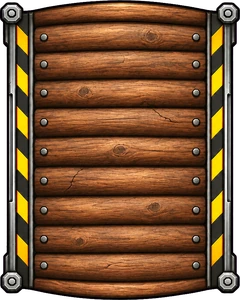
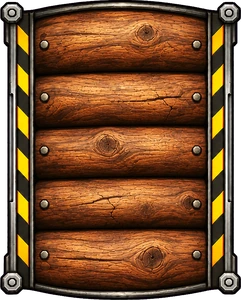
Новый деревянный мост через реку
Claude-Session: https://claude.ai/code/session_013R86rVRDV7uvtfdFLL6VJw

diff --git a/sw.js b/sw.js
@@ -1,6 +1,6 @@
-/* «Две базы» offline cache, version 2026.11.13-2223. A new version of this file makes phones fetch the new game;
+/* «Две базы» offline cache, version 2026.11.13-2248. A new version of this file makes phones fetch the new game;
    files whose content didn't change are copied from the old cache instead of downloaded again. */
-const V='dvebazy-2026.11.13-2223',H={"base_blue.webp": "3fa30d2184", "base_red.webp": "7dbdedfcd1", "crater.webp": "f8f526da4a", "crystal.webp": "3a4d69ffd7", "crystal_empty.webp": "e0bfd176b7", "desert.mp3": "4e820be7a4", "field_empty.webp": "1a89de323f", "field_full.webp": "5ce65390f6", "forest.mp3": "4d73b83bec", "hq_blue.webp": "9fd8e7e807", "hq_red.webp": "971d8873b5", "hv_e_blue.webp": "0fb54e58f2", "hv_e_red.webp": "dadb0cb8e0", "hv_f_blue.webp": "0eaca5d65e", "hv_f_red.webp": "1a6f973922", "intro.mp3": "d06e8482e9", "lost.mp3": "640926f4fa", "nuke.webp": "3bd289d94c", "ref_blue.webp": "55d23168b2", "ref_red.webp": "3c357584ff", "rocket.webp": "071c1a603f", "titan.mp3": "74a7fba796", "titan_hull_blue.webp": "b95fc02d02", "titan_hull_red.webp": "bc3479a55e", "titan_tur_blue.webp": "3a694cdb51", "titan_tur_red.webp": "4c836f3f95", "tw_can_blue.webp": "39c2cdb5df", "tw_can_red.webp": "11768d7b6d", "tw_mg_blue.webp": "f2a7462850", "tw_mg_red.webp": "b13edf318a", "tw_rkt_blue.webp": "890841b140", "tw_rkt_red.webp": "1cd20dd65c", "tw_tes_blue.webp": "f8dbac1346", "tw_tes_red.webp": "35dace5877", "victory.mp3": "86da21c965", "wave.webp": "02e3191a09", "winter.mp3": "c049c90e71", "voice_balist1.mp3": "a809bffd15", "voice_batk1.mp3": "bc1cce2b93", "voice_bomb1.mp3": "3e85b9b9dc", "voice_first1.mp3": "5d89f62894", "voice_first2.mp3": "6f591c10d3", "voice_first3.mp3": "de270f2917", "voice_first4.mp3": "52d929dd20", "voice_first5.mp3": "475b1aa197", "voice_first6.mp3": "d2ce90c984", "voice_first7.mp3": "222510fe73", "voice_hvdie1.mp3": "c1c6b9d714", "voice_loh1.mp3": "21e001d1e4", "voice_loh10.mp3": "41e66ff026", "voice_loh2.mp3": "e7da3dd047", "voice_loh3.mp3": "5cc145f5da", "voice_loh4.mp3": "58b7b9dbe7", "voice_loh5.mp3": "1426e425ce", "voice_loh6.mp3": "2053d0fb8a", "voice_loh7.mp3": "b546dc0fcb", "voice_loh8.mp3": "373d27d207", "voice_loh9.mp3": "ee76b7cbbf", "voice_lose1.mp3": "0965212c4d", "voice_lose2.mp3": "0272edf688", "voice_lose3.mp3": "fcb16aa0a5", "voice_lose4.mp3": "f4663fb4e3", "voice_lose5.mp3": "606ac4c1cf", "voice_lose6.mp3": "83a1fe1747", "voice_mazor1.mp3": "0a2f8341b5", "voice_mazor2.mp3": "2d0ef74267", "voice_mine2.mp3": "5ebf9d3ec6", "voice_mset1.mp3": "a35afbeb82", "voice_mvz1.mp3": "77e6ee09e0", "voice_mvz2.mp3": "fb090a12ca", "voice_nkb1.mp3": "52d38c9324", "voice_nkb2.mp3": "01c40b5760", "voice_nkb3.mp3": "39fe27bdf7", "voice_nkb4.mp3": "64aef97f88", "voice_nkb5.mp3": "4d31a020df", "voice_nkb6.mp3": "789a890588", "voice_nuke2.mp3": "8ca89b5589", "voice_ogon1.mp3": "c9d67acb12", "voice_orud1.mp3": "3026d1e2ee", "voice_rzap1.mp3": "2e0d131a35", "voice_vrag1.mp3": "028cb3b269", "voice_vrag2.mp3": "2e10b723e9", "voice_vrag3.mp3": "6079f5e810", "voice_vrag4.mp3": "8f7fa0ef37", "voice_vrag5.mp3": "e94b070c67", "voice_vrag6.mp3": "cb9915cce8", "voice_vrag7.mp3": "7ed2c5a974", "voice_vrag8.mp3": "48edfe60b2", "voice_vrag9.mp3": "8b0f4d86ee", "voice_win1.mp3": "f3f0a603b5", "voice_win2.mp3": "12950c5326", "voice_win3.mp3": "62d5e009ec", "voice_win4.mp3": "c6f262900b", "voice_win5.mp3": "63d2a5f9c8", "voice_bomb2.mp3": "2a7dccab6b", "voice_bomb3.mp3": "9939c42554", "voice_bomb4.mp3": "ae8e689c51", "voice_bomb5.mp3": "a8e38dbf99", "voice_bomb6.mp3": "5ad7691213", "voice_bomb7.mp3": "68265021c3", "voice_mset2.mp3": "e2e92e7433", "voice_mset3.mp3": "a9811a1536", "voice_mset4.mp3": "8173956a14", "voice_tout1.mp3": "e36d93eff4", "voice_tout2.mp3": "32e7428350", "voice_tout3.mp3": "9fca62bcdf", "voice_tout4.mp3": "3e314749bc", "voice_tout5.mp3": "5fcc940e4d", "voice_tout6.mp3": "fac430fb0f", "voice_tout7.mp3": "979fea3bea", "voice_tout8.mp3": "01a95c5d7b", "voice_tout9.mp3": "6bfcb1b4f9", "voice_etout1.mp3": "43c1b6aaf3", "voice_etout2.mp3": "bd5d728dc7", "voice_etout3.mp3": "9fd5dfc497", "voice_etout4.mp3": "781294a546", "voice_etout5.mp3": "d430e427bc", "voice_orud2.mp3": "aa9e1b81be", "voice_orud3.mp3": "705171a146", "voice_orud4.mp3": "238aca5997", "voice_orud5.mp3": "339952603c", "voice_tlow1.mp3": "785ec7eec0", "voice_tlow2.mp3": "96d601ac89", "voice_tlow3.mp3": "74a22eaaeb", "voice_tlow4.mp3": "fe8e1de87d", "voice_tlow5.mp3": "3cc923bbde", "voice_tlow6.mp3": "4c544afc32", "voice_tlow7.mp3": "32148d5608", "voice_tlow8.mp3": "aa26e23409", "voice_tlow9.mp3": "3085b4d856", "sw2_grass.webp": "ae9bb5b54f", "sw2_mud.webp": "be0d1aced4", "sw2_water.webp": "e2eb74a170", "sw2_atlas.webp": "427607d22b", "sw2_atlas2.webp": "8e1c286c2d", "sw2_pads.webp": "1d18fc9a44", "sw2_atlas3.webp": "28ae61a313", "campaign_map.webp": "a477e42c26", "camp_flags.webp": "bdd397d7fb", "gate_l.webp": "33dd6c659c", "gate_r.webp": "bce02067fe", "gate_logo.webp": "975690c1a2", "hg_icons_free.webp": "910e6c103f", "hg_icons_sup.webp": "25639c2240", "hg_icons_harv.webp": "787070f3e2", "hg_icons_tow.webp": "7943557806", "hg_icons_tit.webp": "2a0621a74b", "mrd_s.webp": "9e3aaed637", "mrd_c.webp": "9969b8a8a2", "meadow_pads.webp": "9990b14e0d", "bridge_wood.webp": "cd4e3475aa", "bridge_steel.webp": "a76d73254d", "manifest.webmanifest": "7015537d8d", "icon-192.png": "3f01f503e0", "icon-512.png": "ea3305bba6", "icon-180.png": "5713f46e1f", "splash-512.png": "03f3510d8f"};
+const V='dvebazy-2026.11.13-2248',H={"base_blue.webp": "3fa30d2184", "base_red.webp": "7dbdedfcd1", "crater.webp": "f8f526da4a", "crystal.webp": "3a4d69ffd7", "crystal_empty.webp": "e0bfd176b7", "desert.mp3": "4e820be7a4", "field_empty.webp": "1a89de323f", "field_full.webp": "5ce65390f6", "forest.mp3": "4d73b83bec", "hq_blue.webp": "9fd8e7e807", "hq_red.webp": "971d8873b5", "hv_e_blue.webp": "0fb54e58f2", "hv_e_red.webp": "dadb0cb8e0", "hv_f_blue.webp": "0eaca5d65e", "hv_f_red.webp": "1a6f973922", "intro.mp3": "d06e8482e9", "lost.mp3": "640926f4fa", "nuke.webp": "3bd289d94c", "ref_blue.webp": "55d23168b2", "ref_red.webp": "3c357584ff", "rocket.webp": "071c1a603f", "titan.mp3": "74a7fba796", "titan_hull_blue.webp": "b95fc02d02", "titan_hull_red.webp": "bc3479a55e", "titan_tur_blue.webp": "3a694cdb51", "titan_tur_red.webp": "4c836f3f95", "tw_can_blue.webp": "39c2cdb5df", "tw_can_red.webp": "11768d7b6d", "tw_mg_blue.webp": "f2a7462850", "tw_mg_red.webp": "b13edf318a", "tw_rkt_blue.webp": "890841b140", "tw_rkt_red.webp": "1cd20dd65c", "tw_tes_blue.webp": "f8dbac1346", "tw_tes_red.webp": "35dace5877", "victory.mp3": "86da21c965", "wave.webp": "02e3191a09", "winter.mp3": "c049c90e71", "voice_balist1.mp3": "a809bffd15", "voice_batk1.mp3": "bc1cce2b93", "voice_bomb1.mp3": "3e85b9b9dc", "voice_first1.mp3": "5d89f62894", "voice_first2.mp3": "6f591c10d3", "voice_first3.mp3": "de270f2917", "voice_first4.mp3": "52d929dd20", "voice_first5.mp3": "475b1aa197", "voice_first6.mp3": "d2ce90c984", "voice_first7.mp3": "222510fe73", "voice_hvdie1.mp3": "c1c6b9d714", "voice_loh1.mp3": "21e001d1e4", "voice_loh10.mp3": "41e66ff026", "voice_loh2.mp3": "e7da3dd047", "voice_loh3.mp3": "5cc145f5da", "voice_loh4.mp3": "58b7b9dbe7", "voice_loh5.mp3": "1426e425ce", "voice_loh6.mp3": "2053d0fb8a", "voice_loh7.mp3": "b546dc0fcb", "voice_loh8.mp3": "373d27d207", "voice_loh9.mp3": "ee76b7cbbf", "voice_lose1.mp3": "0965212c4d", "voice_lose2.mp3": "0272edf688", "voice_lose3.mp3": "fcb16aa0a5", "voice_lose4.mp3": "f4663fb4e3", "voice_lose5.mp3": "606ac4c1cf", "voice_lose6.mp3": "83a1fe1747", "voice_mazor1.mp3": "0a2f8341b5", "voice_mazor2.mp3": "2d0ef74267", "voice_mine2.mp3": "5ebf9d3ec6", "voice_mset1.mp3": "a35afbeb82", "voice_mvz1.mp3": "77e6ee09e0", "voice_mvz2.mp3": "fb090a12ca", "voice_nkb1.mp3": "52d38c9324", "voice_nkb2.mp3": "01c40b5760", "voice_nkb3.mp3": "39fe27bdf7", "voice_nkb4.mp3": "64aef97f88", "voice_nkb5.mp3": "4d31a020df", "voice_nkb6.mp3": "789a890588", "voice_nuke2.mp3": "8ca89b5589", "voice_ogon1.mp3": "c9d67acb12", "voice_orud1.mp3": "3026d1e2ee", "voice_rzap1.mp3": "2e0d131a35", "voice_vrag1.mp3": "028cb3b269", "voice_vrag2.mp3": "2e10b723e9", "voice_vrag3.mp3": "6079f5e810", "voice_vrag4.mp3": "8f7fa0ef37", "voice_vrag5.mp3": "e94b070c67", "voice_vrag6.mp3": "cb9915cce8", "voice_vrag7.mp3": "7ed2c5a974", "voice_vrag8.mp3": "48edfe60b2", "voice_vrag9.mp3": "8b0f4d86ee", "voice_win1.mp3": "f3f0a603b5", "voice_win2.mp3": "12950c5326", "voice_win3.mp3": "62d5e009ec", "voice_win4.mp3": "c6f262900b", "voice_win5.mp3": "63d2a5f9c8", "voice_bomb2.mp3": "2a7dccab6b", "voice_bomb3.mp3": "9939c42554", "voice_bomb4.mp3": "ae8e689c51", "voice_bomb5.mp3": "a8e38dbf99", "voice_bomb6.mp3": "5ad7691213", "voice_bomb7.mp3": "68265021c3", "voice_mset2.mp3": "e2e92e7433", "voice_mset3.mp3": "a9811a1536", "voice_mset4.mp3": "8173956a14", "voice_tout1.mp3": "e36d93eff4", "voice_tout2.mp3": "32e7428350", "voice_tout3.mp3": "9fca62bcdf", "voice_tout4.mp3": "3e314749bc", "voice_tout5.mp3": "5fcc940e4d", "voice_tout6.mp3": "fac430fb0f", "voice_tout7.mp3": "979fea3bea", "voice_tout8.mp3": "01a95c5d7b", "voice_tout9.mp3": "6bfcb1b4f9", "voice_etout1.mp3": "43c1b6aaf3", "voice_etout2.mp3": "bd5d728dc7", "voice_etout3.mp3": "9fd5dfc497", "voice_etout4.mp3": "781294a546", "voice_etout5.mp3": "d430e427bc", "voice_orud2.mp3": "aa9e1b81be", "voice_orud3.mp3": "705171a146", "voice_orud4.mp3": "238aca5997", "voice_orud5.mp3": "339952603c", "voice_tlow1.mp3": "785ec7eec0", "voice_tlow2.mp3": "96d601ac89", "voice_tlow3.mp3": "74a22eaaeb", "voice_tlow4.mp3": "fe8e1de87d", "voice_tlow5.mp3": "3cc923bbde", "voice_tlow6.mp3": "4c544afc32", "voice_tlow7.mp3": "32148d5608", "voice_tlow8.mp3": "aa26e23409", "voice_tlow9.mp3": "3085b4d856", "sw2_grass.webp": "ae9bb5b54f", "sw2_mud.webp": "be0d1aced4", "sw2_water.webp": "e2eb74a170", "sw2_atlas.webp": "427607d22b", "sw2_atlas2.webp": "8e1c286c2d", "sw2_pads.webp": "1d18fc9a44", "sw2_atlas3.webp": "28ae61a313", "campaign_map.webp": "a477e42c26", "camp_flags.webp": "bdd397d7fb", "gate_l.webp": "33dd6c659c", "gate_r.webp": "bce02067fe", "gate_logo.webp": "975690c1a2", "hg_icons_free.webp": "910e6c103f", "hg_icons_sup.webp": "25639c2240", "hg_icons_harv.webp": "787070f3e2", "hg_icons_tow.webp": "7943557806", "hg_icons_tit.webp": "2a0621a74b", "mrd_s.webp": "9e3aaed637", "mrd_c.webp": "9969b8a8a2", "meadow_pads.webp": "9990b14e0d", "bridge_wood.webp": "e5bd8615a1", "bridge_steel.webp": "a76d73254d", "manifest.webmanifest": "7015537d8d", "icon-192.png": "3f01f503e0", "icon-512.png": "ea3305bba6", "icon-180.png": "5713f46e1f", "splash-512.png": "03f3510d8f"};
 self.addEventListener('install',e=>{self.skipWaiting();e.waitUntil((async()=>{const c=await caches.open(V);let oldH={},old=null;
  for(const k of await caches.keys()){if(k===V)continue;const o=await caches.open(k);const r=await o.match('__hashes');if(r){try{oldH=await r.json();old=o;}catch(_){}}}
  await Promise.all(Object.keys(H).map(async f=>{try{if(old&&oldH[f]===H[f]){const r=await old.match(f);if(r){await c.put(f,r);return;}}await c.add(new Request(f,{cache:'reload'}));}catch(_){}}));

diff --git a/index.html b/index.html
@@ -3045,9 +3045,9 @@ window.__dbg={get W(){return W},simStep,doCmd,botThink,packSnap,onSnap,setCode:c
 requestAnimationFrame(frame);
 </script>
 
-<div id="appVer">v2026.11.13-2223</div>
+<div id="appVer">v2026.11.13-2248</div>
 <script>
-window.APP_VERSION='2026.11.13-2223';
+window.APP_VERSION='2026.11.13-2248';
 /* the version label only on the lobby screen */
 setInterval(()=>{const l=document.getElementById('lobby'),v=document.getElementById('appVer');if(l&&v)v.style.display=l.hidden?'none':'';},500);
 if('serviceWorker' in navigator){let reloaded=false;
